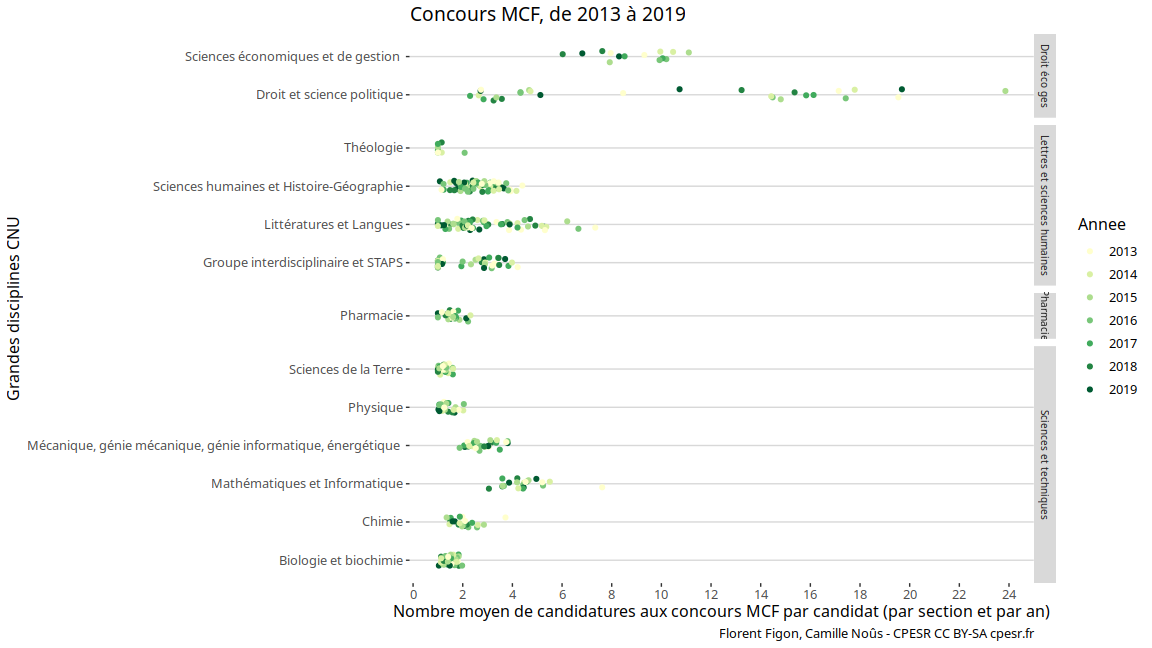
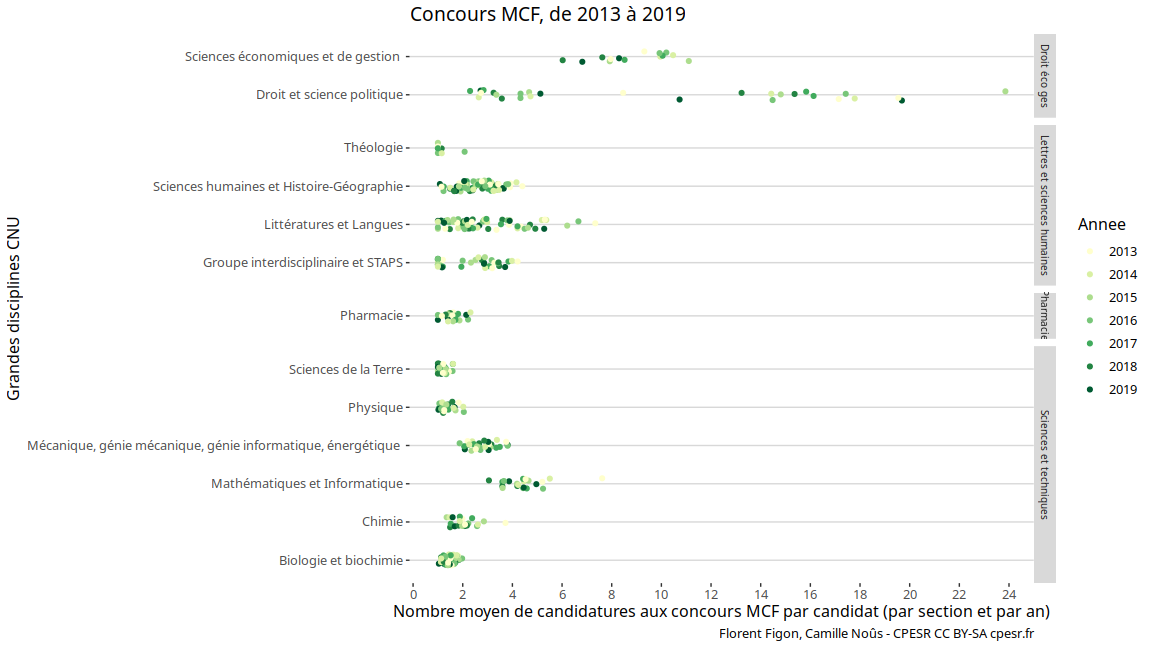
Analyse de la proportion de postes auxquels un candidat postule

diff --git a/ConcoursMCF/ConcoursMCF.md b/ConcoursMCF/ConcoursMCF.md
@@ -15,17 +15,28 @@ issues](https://github.com/cpesr/RFC/issues).*
 
 <!-- end list -->
 
-    ##  [1] "TypeRecrutement"               "GrandeDisciplineCNU"          
-    ##  [3] "GroupeCNU"                     "SectionCNU"                   
-    ##  [5] "SectionCNU.ID"                 "Annee"                        
-    ##  [7] "QualificationDossiers.MCF"     "QualificationQualifies.MCF"   
-    ##  [9] "PostesPublies.MCF"             "Candidatures.MCF"             
-    ## [11] "Candidats.MCF"                 "PostesPourvus.MCF"            
-    ## [13] "Candidatures.MCF.F"            "Candidatures.MCF.H"           
-    ## [15] "Candidats.MCF.F"               "Candidats.MCF.H"              
-    ## [17] "Recrutes.MCF.F"                "Recrutes.MCF.H"               
-    ## [19] "candidatures.par.candidat.MCF" "candidatures.par.poste.MCF"   
-    ## [21] "Code.GrandeDisciplineCNU"
+    ##  [1] "TypeRecrutement"                        
+    ##  [2] "GrandeDisciplineCNU"                    
+    ##  [3] "GroupeCNU"                              
+    ##  [4] "SectionCNU"                             
+    ##  [5] "SectionCNU.ID"                          
+    ##  [6] "Annee"                                  
+    ##  [7] "QualificationDossiers.MCF"              
+    ##  [8] "QualificationQualifies.MCF"             
+    ##  [9] "PostesPublies.MCF"                      
+    ## [10] "Candidatures.MCF"                       
+    ## [11] "Candidats.MCF"                          
+    ## [12] "PostesPourvus.MCF"                      
+    ## [13] "Candidatures.MCF.F"                     
+    ## [14] "Candidatures.MCF.H"                     
+    ## [15] "Candidats.MCF.F"                        
+    ## [16] "Candidats.MCF.H"                        
+    ## [17] "Recrutes.MCF.F"                         
+    ## [18] "Recrutes.MCF.H"                         
+    ## [19] "candidatures.par.candidat.MCF"          
+    ## [20] "candidatures.par.poste.MCF"             
+    ## [21] "candidatures.par.candidat.par.poste.MCF"
+    ## [22] "Code.GrandeDisciplineCNU"
 
   - Période : 2005, 2019
 
@@ -140,3 +151,7 @@ plein de candidatures dans certaines disciplines :
 ![](ConcoursMCF_files/figure-gfm/candidatures.par.poste-1.png)<!-- -->
 
 ![](ConcoursMCF_files/figure-gfm/candidatures.par.poste.2-1.png)<!-- -->
+
+![](ConcoursMCF_files/figure-gfm/candidatures.par.candidat.par.poste-1.png)<!-- -->
+
+![](ConcoursMCF_files/figure-gfm/candidatures.par.candidat.par.poste.2-1.png)<!-- -->
